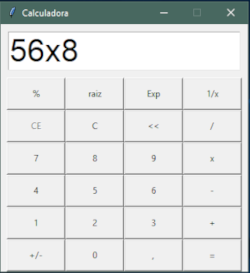
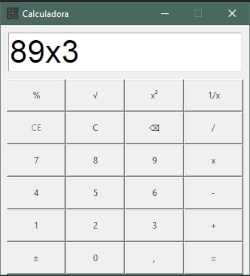
Atualização da interface

diff --git a/Projetos/Calculadora.py b/Projetos/Calculadora.py
@@ -1,4 +1,5 @@
 from tkinter import *
+from math import sqrt
 
 def calc_main():
     class Calculadora():
@@ -9,15 +10,15 @@ def calc_main():
             # Instanciando Labels
             self.entry_resultado = Entry(frm_resultado, width=13, bg='#fff', font=('helvetica', 32))
 
-            #instanciando Botões
-            btn_porcento = Button(frm_botoes, text='%', width=10, pady=10, command=lambda: self.click('%'))
-            btn_raiz = Button(frm_botoes, text='raiz', width=10, pady=10, command=lambda: self.click(''))
-            btn_exp = Button(frm_botoes, text='Exp', width=10, pady=10, command=lambda: self.click('**'))
+            # Instanciando Botões
+            btn_porcento = Button(frm_botoes, text='%', width=10, pady=10)
+            btn_raiz = Button(frm_botoes, text=u'\u221A', width=10, pady=10, command=lambda: self.click('sqrt'))
+            btn_exp = Button(frm_botoes, text=u'x\u00B2', width=10, pady=10, command=lambda: self.click('sqr'))
             btn_fracao = Button(frm_botoes, text='1/x', width=10, pady=10, command=lambda: self.click(''))
 
             btn_CE = Button(frm_botoes, text='CE', width=10, pady=10, state=DISABLED)
             btn_C = Button(frm_botoes, text='C', width=10, pady=10, command=self.clear)
-            btn_back = Button(frm_botoes, text='<<', width=10, pady=10, command=self.clear_end)
+            btn_back = Button(frm_botoes, text=u'\u232B', width=10, pady=10, command=self.clear_end)
             btn_div = Button(frm_botoes, text='/', width=10, pady=10, command=lambda: self.click('/'))
 
             btn_7 = Button(frm_botoes, text='7', width=10, pady=10, command=lambda: self.click('7'))
@@ -35,7 +36,7 @@ def calc_main():
             btn_3 = Button(frm_botoes, text='3', width=10, pady=10, command=lambda: self.click('3'))
             btn_soma = Button(frm_botoes, text='+', width=10, pady=10, command=lambda: self.click('+'))
 
-            btn_inverte_sinal = Button(frm_botoes, text='+/-', width=10, pady=10)
+            btn_inverte_sinal = Button(frm_botoes, text=u'\u00B1', width=10, pady=10)
             btn_zero = Button(frm_botoes, text='0', width=10, pady=10, command=lambda: self.click('0'))
             btn_ponto = Button(frm_botoes, text=',', width=10, pady=10, command=lambda: self.click('+'))
             btn_iqual = Button(frm_botoes, text='=', width=10, pady=10, command=self.igual)
@@ -95,6 +96,7 @@ def calc_main():
 
     root = Tk()
     root.title('Calculadora')
+    root.iconbitmap('favicon.ico')
     root.resizable(False, False)
     my_gui = Calculadora(root)
     root.mainloop()
